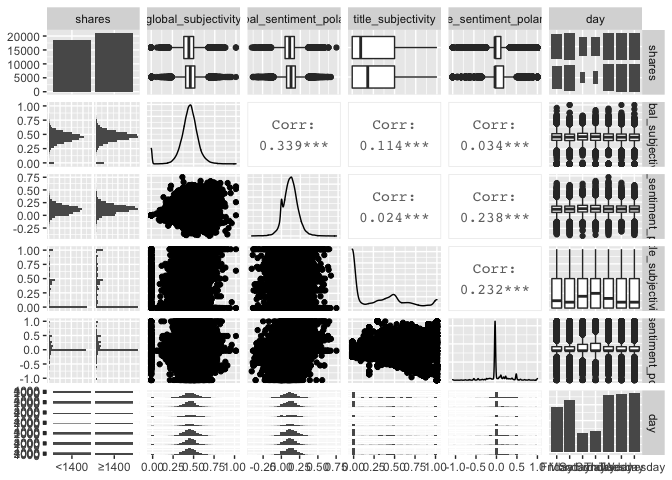
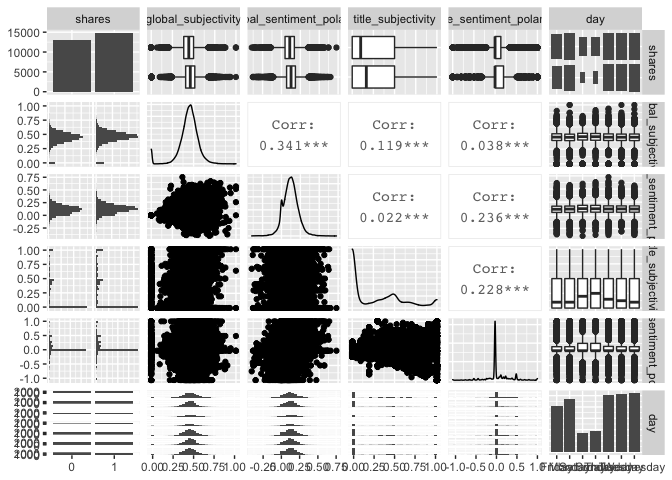
Classification Tree

diff --git a/README.md b/README.md
@@ -37,7 +37,7 @@ Create a new variable called `day` to indicate the day of the week the
 article was publsiehd. Keep the `shares` variable, the four predictor
 variables mentioned above, and the new `day` variable. Change `shares`
 into a binary classification by splitting it into two groups - \<1400
-and ≥1400.
+will be represented as 0 and ≥1400 will be represented as 1.
 
 ``` r
 newsData <- read_csv("OnlineNewsPopularity.csv") %>% 
@@ -50,7 +50,8 @@ newsData <- read_csv("OnlineNewsPopularity.csv") %>%
                                     "Sunday"))))))) %>%
   select(shares, global_subjectivity, global_sentiment_polarity,
          title_subjectivity, title_sentiment_polarity, day)
-newsData$shares <- ifelse(newsData$shares<1400, "<1400", "≥1400")
+newsData$shares <- ifelse(newsData$shares<1400, "0", "1")
+newsData$shares <- as.factor(newsData$shares)
 ```
 
 Split the **newsData** data set into training and testing data sets.
@@ -61,7 +62,7 @@ train <- sample(1:nrow(newsData), size=nrow(newsData)*0.7)
 test <- dplyr::setdiff(1:nrow(newsData), train)
 
 newsDataTrain <- newsData[train, ]
-nwsDataTest <- newsData[test, ]
+newsDataTest <- newsData[test, ]
 ```
 
 ## Summarization
@@ -76,7 +77,7 @@ respectively.
 
 ``` r
 newsDataLt <- newsDataTrain %>%
-  filter(shares=="<1400") %>%
+  filter(shares=="0") %>%
   select(global_subjectivity, global_sentiment_polarity,
          title_subjectivity, title_sentiment_polarity)
 knitr::kable(apply(newsDataLt,2,summary), digits=2,
@@ -96,7 +97,7 @@ Summary Statisitics for \<1400 Shares in Training Data
 
 ``` r
 newsDataGt <- newsDataTrain %>%
-  filter(shares=="≥1400") %>%
+  filter(shares=="1") %>%
   select(global_subjectivity, global_sentiment_polarity,
          title_subjectivity, title_sentiment_polarity)
 knitr::kable(apply(newsDataGt,2,summary), digits=2,
@@ -114,6 +115,75 @@ knitr::kable(apply(newsDataGt,2,summary), digits=2,
 
 Summary Statisitics for ≥1400 Shares in Training Data
 
+``` r
+GGally::ggpairs(newsDataTrain)
+```
+
+![](README_files/figure-gfm/plot-1.png)<!-- -->
+
 ## Modeling
+
+### Ensemble Model - Classification Tree
+
+This classification tree aims to predict the `shares` category based on
+`global_subjectivity`,`global_sentiment_polarity`, `title_subjectivity`,
+and `title_sentiment_polarity`. Classification trees require the tuning
+parameter **cp**. `trainControl` is used to determine the “best” **cp**
+value for this model. The `preProcess` agrument standardizes the
+variables.
+
+``` r
+trCtrl <- trainControl(method="repeatedcv", number=10, repeats=3)
+classTreeFit <- train(shares~ global_subjectivity*global_sentiment_polarity*
+                 title_sentiment_polarity*title_subjectivity, 
+               data=newsDataTrain, 
+               method="rpart",
+               trControl=trCtrl,
+               preProcess=c("center", "scale"))
+classTreeFit
+```
+
+Use the `predict` function to predict the `shares` variable in the
+**newsDataTest** data set. `confusionMatrix` compares the predicted
+values to the actual values in the data set and provides the accuracy of
+the model.
+
+``` r
+classTreePred <- predict(classTreeFit, newdata=newsDataTest)
+confusionMatrix(classTreePred, newsDataTest$shares)
+```
+
+    ## Confusion Matrix and Statistics
+    ## 
+    ##           Reference
+    ## Prediction    0    1
+    ##          0 1598 1301
+    ##          1 3982 5013
+    ##                                           
+    ##                Accuracy : 0.5558          
+    ##                  95% CI : (0.5468, 0.5648)
+    ##     No Information Rate : 0.5309          
+    ##     P-Value [Acc > NIR] : 2.458e-08       
+    ##                                           
+    ##                   Kappa : 0.0826          
+    ##                                           
+    ##  Mcnemar's Test P-Value : < 2.2e-16       
+    ##                                           
+    ##             Sensitivity : 0.2864          
+    ##             Specificity : 0.7939          
+    ##          Pos Pred Value : 0.5512          
+    ##          Neg Pred Value : 0.5573          
+    ##              Prevalence : 0.4691          
+    ##          Detection Rate : 0.1344          
+    ##    Detection Prevalence : 0.2437          
+    ##       Balanced Accuracy : 0.5402          
+    ##                                           
+    ##        'Positive' Class : 0               
+    ## 
+
+From the output, we can see this model has an accuracy of 55.58% and
+therefore, has a misclassification rate of 44.42%.
+
+### Linear Regression Model -
 
 ## Automation
